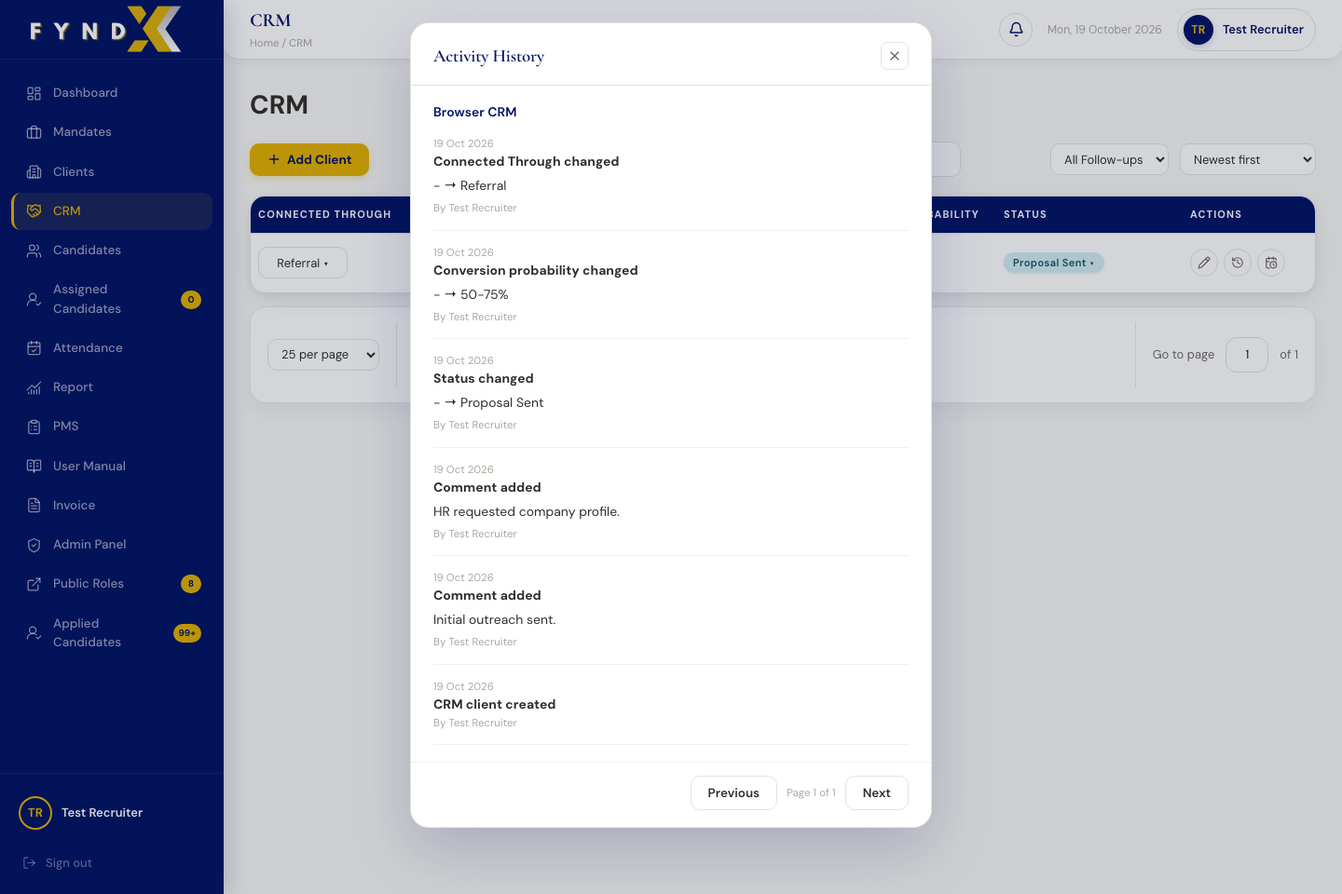
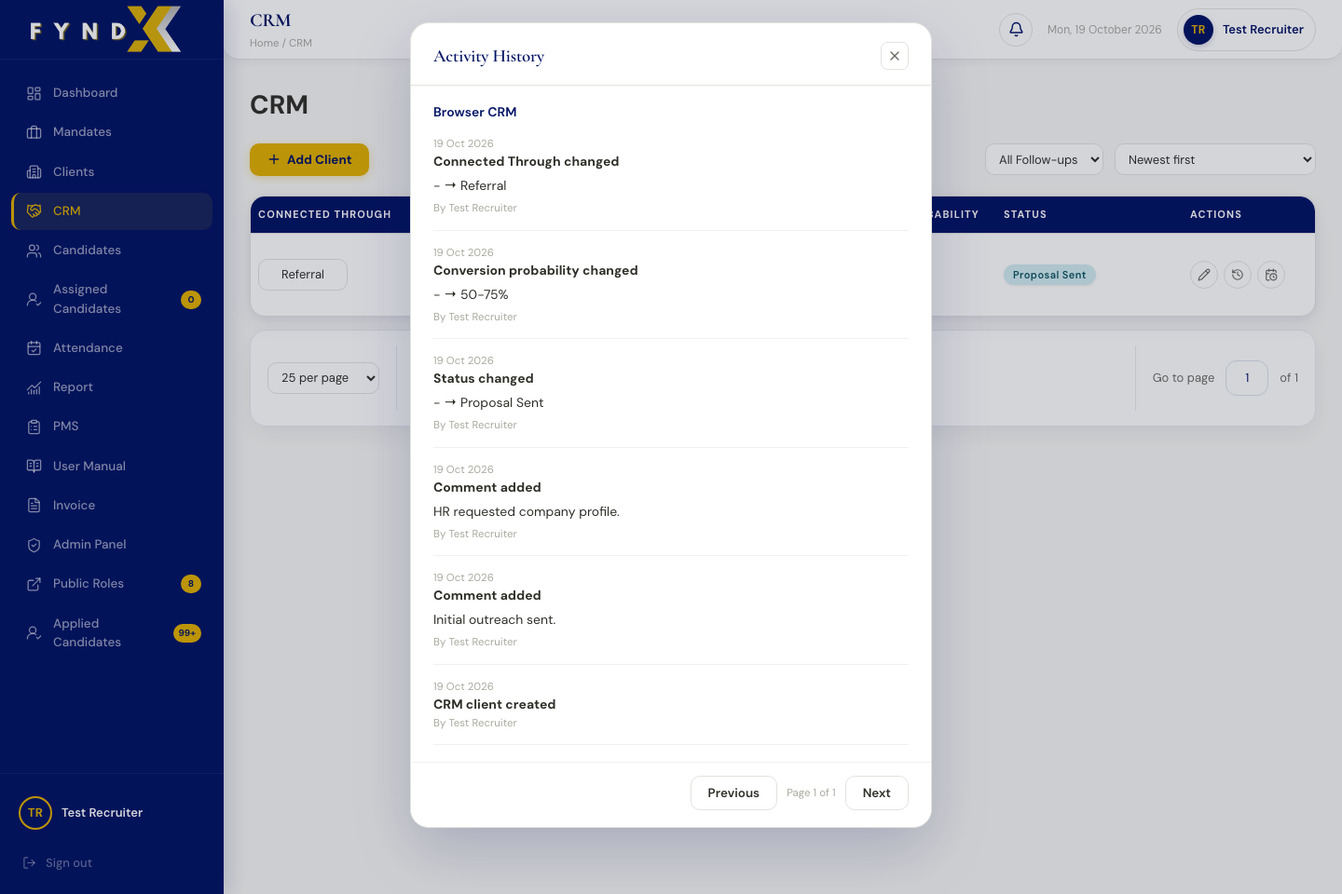
Refine CRM comment previews, calendar and probability sorting

diff --git a/src/pages/CrmPage.jsx b/src/pages/CrmPage.jsx
@@ -1,5 +1,5 @@
 import { useCallback, useEffect, useRef, useState } from 'react'
-import { CalendarClock, History, Info, Pencil, Plus, Search, Trash2 } from 'lucide-react'
+import { ChevronDown, CalendarClock, History, Info, Pencil, Plus, Search, Trash2 } from 'lucide-react'
 import { CrmClientForm, CrmDialog, CrmHistory } from '../components/CrmDialogs'
 import PaginationBar from '../components/PaginationBar'
 import TablePopover from '../components/TablePopover'
@@ -8,6 +8,7 @@ import { FyndbridgeLoader } from '../components/FyndbridgeLoader'
 import { crmRequest } from '../services/crmApi'
 import { CRM_BADGES, CRM_STATUSES, CRM_PROBABILITIES, CRM_SOURCES, commentDate, followUpState, validLinkedIn } from '../utils/crm'
 import { formatDateDDMMYYYY } from '../utils/dateFormat'
+import { previewWords } from '../utils/tableText'
 import '../styles/Shared.css'
 import './CrmPage.css'
 
@@ -33,6 +34,7 @@ export default function CrmPage() {
   const [selectedContacts, setSelectedContacts] = useState({})
   const [popover, setPopover] = useState(null)
   const [comment, setComment] = useState(null)
+  const [expandedComments, setExpandedComments] = useState({})
   const [followEditor, setFollowEditor] = useState(null)
   const [busy, setBusy] = useState({})
   const commentDrafts = useRef(new Map())
@@ -81,7 +83,7 @@ export default function CrmPage() {
     finally { locks.current.delete(record.id); if (mounted.current) setBusy(current => ({ ...current, [record.id]: false })) }
   }
   const openPopover = (record, field, options, element) => setPopover({ record, field, options, anchorRect: element.getBoundingClientRect() })
-  const drop = (record, field, options) => <button type="button" className={field === 'connected_through' ? 'filter-select compact-select' : `badge ${CRM_BADGES[record[field]] || 'badge-status-unset'}`} disabled={busy[record.id]} aria-label={`Edit ${field.replaceAll('_', ' ')} for ${record.organisation_name}`} onClick={event => openPopover(record, field, options, event.currentTarget)}>{record[field] || '-'} ▾</button>
+  const drop = (record, field, options) => <button type="button" className={field === 'connected_through' ? 'filter-select compact-select' : `badge ${CRM_BADGES[record[field]] || 'badge-status-unset'}`} disabled={busy[record.id]} aria-label={`Edit ${field.replaceAll('_', ' ')} for ${record.organisation_name}`} onClick={event => openPopover(record, field, options, event.currentTarget)}>{record[field] || '-'}</button>
   const configure = setter => value => { setLoading(true); setPage(1); setter(value) }
   const saved = record => { replace(record); setRevision(value => value + 1) }
   const deleteContact = async record => {
@@ -98,7 +100,7 @@ export default function CrmPage() {
     <div className="crm-toolbar"><button type="button" className="btn-primary" onClick={() => setForm({ record: null })}><Plus size={16} /> Add Client</button>
       <div className="crm-search"><Search size={15} /><input className="form-control" aria-label="Search CRM" placeholder="Search CRM..." value={search} onChange={event => setSearch(event.target.value)} /></div>
       <select className="filter-select" aria-label="Follow-up filter" value={follow} onChange={event => configure(setFollow)(event.target.value)}><option value="all">All Follow-ups</option>{Object.entries(FOLLOW_LABELS).map(([key, value]) => <option value={key} key={key}>{value}</option>)}</select>
-      <select className="filter-select" aria-label="Sort CRM" value={sort} onChange={event => configure(setSort)(event.target.value)}><option value="created_at:desc">Newest first</option><option value="created_at:asc">Oldest first</option><option value="organisation_name:asc">Organisation A–Z</option><option value="organisation_name:desc">Organisation Z–A</option></select>
+      <select className="filter-select" aria-label="Sort CRM" value={sort} onChange={event => configure(setSort)(event.target.value)}><option value="created_at:desc">Newest first</option><option value="created_at:asc">Oldest first</option><option value="conversion_probability:desc">Probability: highest to lowest</option><option value="organisation_name:asc">Organisation A–Z</option><option value="organisation_name:desc">Organisation Z–A</option></select>
     </div>
     {error && <div className="crm-error" role="alert">{error}<button className="btn-secondary" onClick={() => { setLoading(true); setRevision(value => value + 1) }}>Reload table</button></div>}
     <div className="table-card"><div className="table-wrapper crm-table-scroll"><table className="data-table fb-theme-table crm-table"><colgroup>{WIDTHS.map((width, i) => <col key={i} style={{ width }} />)}</colgroup>
@@ -107,6 +109,9 @@ export default function CrmPage() {
         const contactIndex = Math.min(selectedContacts[record.id] || 0, record.contacts.length - 1)
         const contact = record.contacts[contactIndex]
         const state = followUpState(record.next_follow_up_date, today)
+        const commentBody = record.latest_comment?.body || ''
+        const { isLong, preview } = previewWords(commentBody, 3)
+        const expanded = Boolean(record.latest_comment && expandedComments[record.id] === record.latest_comment.id)
         return <tr key={record.id} aria-busy={Boolean(busy[record.id])}>
           <td><span className="name-text">{record.organisation_name}</span><button className={`crm-follow crm-follow-${state}`} type="button" title={record.next_follow_up_date ? `Next follow-up: ${formatDateDDMMYYYY(record.next_follow_up_date)}` : 'Set follow-up date'} onClick={() => setFollowEditor({ record, value: record.next_follow_up_date || '' })}>{FOLLOW_LABELS[state]}{record.next_follow_up_date ? ` · ${formatDateDDMMYYYY(record.next_follow_up_date)}` : ''}</button></td>
           <td><span className="inline-action-cell">{record.contacts.length > 1 ? <><select className="filter-select compact-select" aria-label={`Contact for ${record.organisation_name}`} value={contactIndex} onChange={event => setSelectedContacts(current => ({ ...current, [record.id]: Number(event.target.value) }))}>{record.contacts.map((item, index) => <option key={index} value={index}>{item.name}</option>)}</select><button type="button" className="row-action-btn" title="Delete Contact" disabled={busy[record.id]} onClick={() => deleteContact(record)}><Trash2 size={12} /></button></> : contact.name}<button type="button" className="row-action-btn" title="Add Contact" onClick={() => setForm({ record: { ...record, contacts: [...record.contacts, { name: '', mobile: '', email: '', designation: '', linkedin: '' }] } })}><Plus size={12} /></button></span></td>
@@ -114,7 +119,10 @@ export default function CrmPage() {
           <td>{contact.linkedin && validLinkedIn(contact.linkedin) ? <a href={contact.linkedin} className="candidate-linkedin-link" target="_blank" rel="noopener noreferrer">LinkedIn ↗</a> : '-'}</td>
           <td>{record.sector || '-'}</td><td>{drop(record, 'connected_through', CRM_SOURCES)}</td><td>{formatDateDDMMYYYY(record.created_at)}</td>
           <td className="crm-comment-cell"><button type="button" className="row-action-btn crm-comment-info" aria-label={`Comment history for ${record.organisation_name}`} onClick={() => setHistory({ record, kind: 'comments' })}><Info size={14} /></button>
-            {comment?.record.id === record.id ? <div className="crm-inline-comment"><textarea className="form-control" aria-label="New comment" rows={3} maxLength={10000} value={comment.value} onChange={event => { commentDrafts.current.set(record.id, event.target.value); setComment(current => ({ ...current, value: event.target.value })) }} disabled={busy[record.id]} autoFocus /><div><button className="btn-primary" disabled={busy[record.id] || !comment.value.trim()} onClick={async () => { if (await update(comment.record, { comment: comment.value.trim() })) { commentDrafts.current.delete(record.id); setComment(null) } }}>Save</button><button className="btn-secondary" disabled={busy[record.id]} onClick={() => { commentDrafts.current.delete(record.id); setComment(null) }}>Cancel</button><button className="row-action-btn" title="Reload latest record (keep draft)" onClick={() => reloadRow(record)}>↻</button></div></div> : <button type="button" className="crm-comment-text" onClick={() => setComment({ record, value: commentDrafts.current.get(record.id) || '' })}>{record.latest_comment ? `${commentDate(record.latest_comment.created_at)} - ${record.latest_comment.body}` : 'Add comment'}</button>}
+            {comment?.record.id === record.id ? <div className="crm-inline-comment"><textarea className="form-control" aria-label="New comment" rows={3} maxLength={10000} value={comment.value} onChange={event => { commentDrafts.current.set(record.id, event.target.value); setComment(current => ({ ...current, value: event.target.value })) }} disabled={busy[record.id]} autoFocus /><div><button className="btn-primary" disabled={busy[record.id] || !comment.value.trim()} onClick={async () => { if (await update(comment.record, { comment: comment.value.trim() })) { commentDrafts.current.delete(record.id); setComment(null) } }}>Save</button><button className="btn-secondary" disabled={busy[record.id]} onClick={() => { commentDrafts.current.delete(record.id); setComment(null) }}>Cancel</button><button className="row-action-btn" title="Reload latest record (keep draft)" onClick={() => reloadRow(record)}>↻</button></div></div> : <div className="table-comment-cell">
+              <button type="button" className={`crm-comment-text table-comment-text${expanded ? ' is-expanded' : ''}`} onClick={() => setComment({ record, value: commentDrafts.current.get(record.id) || '' })}>{record.latest_comment ? `${commentDate(record.latest_comment.created_at)} - ${expanded || !isLong ? commentBody : preview}` : 'Add comment'}</button>
+              {isLong && <button type="button" className="table-view-more" aria-expanded={expanded} onClick={() => setExpandedComments(current => ({ ...current, [record.id]: expanded ? null : record.latest_comment.id }))}><ChevronDown size={12} className={expanded ? 'is-open' : ''} /> {expanded ? 'View less' : 'View more'}</button>}
+            </div>}
           </td><td>{drop(record, 'conversion_probability', CRM_PROBABILITIES)}</td><td>{drop(record, 'status', CRM_STATUSES)}</td>
           <td><div className="inline-action-cell"><button type="button" className="row-action-btn" title="Edit Client" onClick={() => openEdit(record)} disabled={busy[record.id]}><Pencil size={14} /></button><button type="button" className="row-action-btn" title="Activity History" onClick={() => setHistory({ record, kind: 'activities' })}><History size={14} /></button><button type="button" className="row-action-btn" title="Edit Follow-up" onClick={() => setFollowEditor({ record, value: record.next_follow_up_date || '' })}><CalendarClock size={14} /></button></div></td>
         </tr>
@@ -127,6 +135,6 @@ export default function CrmPage() {
     }}>{option || '-'}</button>)}</TablePopover>}
     {form && <CrmClientForm record={form.record} onClose={() => setForm(null)} onSaved={saved} />}
     {history && <CrmHistory {...history} onClose={() => setHistory(null)} />}
-    {followEditor && <CrmDialog title="Next Follow-up Date" onClose={() => setFollowEditor(null)} busy={busy[followEditor.record.id]} footer={<><button className="btn-secondary" disabled={busy[followEditor.record.id]} onClick={() => setFollowEditor(null)}>Cancel</button><button className="btn-primary" disabled={busy[followEditor.record.id]} onClick={async () => { if (await update(followEditor.record, { next_follow_up_date: followEditor.value })) setFollowEditor(null) }}>Save</button></>}><div className="modal-body"><label className="form-label" htmlFor="crm-row-follow-up">{followEditor.record.organisation_name}</label><FormattedDateInput id="crm-row-follow-up" value={followEditor.value} onChange={value => setFollowEditor(current => ({ ...current, value }))} disabled={busy[followEditor.record.id]} />{error && <p className="form-error" role="alert">{error}</p>}</div></CrmDialog>}
+    {followEditor && <CrmDialog title="Next Follow-up Date" onClose={() => setFollowEditor(null)} busy={busy[followEditor.record.id]} footer={<><button className="btn-secondary" disabled={busy[followEditor.record.id]} onClick={() => setFollowEditor(null)}>Cancel</button><button className="btn-primary" disabled={busy[followEditor.record.id]} onClick={async () => { if (await update(followEditor.record, { next_follow_up_date: followEditor.value })) setFollowEditor(null) }}>Save</button></>}><div className="modal-body"><label className="form-label" htmlFor="crm-row-follow-up">{followEditor.record.organisation_name}</label><FormattedDateInput floating id="crm-row-follow-up" value={followEditor.value} onChange={value => setFollowEditor(current => ({ ...current, value }))} disabled={busy[followEditor.record.id]} />{error && <p className="form-error" role="alert">{error}</p>}</div></CrmDialog>}
   </div>
 }

diff --git a/src/components/FormattedDateInput.jsx b/src/components/FormattedDateInput.jsx
@@ -1,4 +1,4 @@
-import { useEffect, useRef, useState } from 'react'
+import { useEffect, useLayoutEffect, useRef, useState } from 'react'
 import { ChevronLeft, ChevronRight } from 'lucide-react'
 import { formatDateDDMMYYYY } from '../utils/dateFormat'
 
@@ -56,12 +56,42 @@ const calendarDays = (monthDate) => {
   })
 }
 
-export default function FormattedDateInput({ value, onChange, className = 'form-control', disabled = false, name, id }) {
+export default function FormattedDateInput({ value, onChange, className = 'form-control', disabled = false, name, id, floating = false }) {
   const [displayValue, setDisplayValue] = useState('')
   const [isEditing, setIsEditing] = useState(false)
   const [isOpen, setIsOpen] = useState(false)
   const [visibleMonth, setVisibleMonth] = useState(() => dateFromValue(value))
   const containerRef = useRef(null)
+  const calendarRef = useRef(null)
+
+  // Opt-in for modal fields: a viewport-positioned calendar escapes the form's
+  // scrolling body while remaining in the dialog DOM and its keyboard focus trap.
+  useLayoutEffect(() => {
+    if (!isOpen || !floating) return undefined
+    const positionCalendar = () => {
+      const calendar = calendarRef.current
+      const input = containerRef.current?.querySelector('input')
+      if (!calendar || !input) return
+      const anchor = input.getBoundingClientRect()
+      const width = Math.min(324, window.innerWidth - 32)
+      calendar.style.width = `${width}px`
+      const height = calendar.offsetHeight
+      const below = window.innerHeight - anchor.bottom - 16
+      const above = anchor.top - 16
+      const top = height > below && above > below ? anchor.top - height - 8 : anchor.bottom + 8
+      Object.assign(calendar.style, {
+        left: `${Math.max(16, Math.min(anchor.left, window.innerWidth - width - 16))}px`,
+        top: `${Math.max(8, Math.min(top, window.innerHeight - height - 8))}px`,
+      })
+    }
+    positionCalendar()
+    window.addEventListener('resize', positionCalendar)
+    window.addEventListener('scroll', positionCalendar, true)
+    return () => {
+      window.removeEventListener('resize', positionCalendar)
+      window.removeEventListener('scroll', positionCalendar, true)
+    }
+  }, [floating, isOpen])
 
   useEffect(() => {
     if (!isOpen) return undefined
@@ -136,7 +166,7 @@ export default function FormattedDateInput({ value, onChange, className = 'form-
       />
 
       {isOpen && (
-        <span className="formatted-date-calendar" role="dialog" aria-label="Choose a date" onClick={(event) => event.stopPropagation()}>
+        <span ref={calendarRef} className="formatted-date-calendar" style={floating ? { position: 'fixed', zIndex: 100010 } : undefined} role="dialog" aria-label="Choose a date" onClick={(event) => event.stopPropagation()}>
           <span className="formatted-date-calendar-header">
             <button type="button" onClick={() => changeMonth(-1)} aria-label="Previous month">
               <ChevronLeft size={18} />

diff --git a/server/src/services/crm.test.js b/server/src/services/crm.test.js
@@ -6,7 +6,7 @@ const { createDatabase, CONSULTANT, OTHER, INACTIVE, CLIENT } = require('../../t
 const { normalizeClientName } = require('../../../shared/clientNames.cjs')
 const MIGRATION = path.resolve(__dirname, '../../../supabase/migrations/20261019105523_business_development_crm.sql')
 const contact = { name: 'HR Contact', mobile: '+91 98765 43210', email: 'hr@example.test', designation: '', linkedin: '' }
-async function createCrmDatabase() { const db = await createDatabase(); await db.exec(await fs.readFile(MIGRATION, 'utf8')); return db }
+async function createCrmDatabase() { const db = await createDatabase(); await db.exec(await fs.readFile(MIGRATION, 'utf8')); await db.exec(await fs.readFile(path.resolve(__dirname, '../../../supabase/migrations/20261019110948_crm_probability_sorting.sql'), 'utf8')); return db }
 async function save(db, data, record = null, actor = CONSULTANT) { return (await db.query('select crm_save($1,$2,$3,$4) as data', [actor, record?.id || null, record?.version || null, JSON.stringify(data)])).rows[0].data }
 const scalar = async (db, sql, args = []) => Object.values((await db.query(sql, args)).rows[0])[0]
 test('CRM migration: transactions, persistence, duplicates, audit, concurrency and access control', async t => {
@@ -77,6 +77,17 @@ test('CRM migration: transactions, persistence, duplicates, audit, concurrency a
     assert.equal((await list('', 'overdue')).total, 0)
     assert.equal((await list('', 'upcoming')).total, 0)
     assert.equal((await list('', 'all')).data.length, 1)
+  })
+  await t.test('probability sorts numerically across pages, with unspecified probabilities last', async () => {
+    for (const [index, probability] of [null, '<25%', '75-100%', '25-50%', '50-75%', '75-100%'].entries()) {
+      await save(db, { organisation_name: `Probability fixture ${index}`, contacts: [contact], conversion_probability: probability })
+    }
+    const bands = async (page, ascending = false) => (await scalar(db, "select crm_list('Probability fixture','all','2026-10-20',$1,2,'conversion_probability',$2)", [page, ascending])).data.map(row => row.conversion_probability)
+    assert.deepEqual(await bands(1), ['75-100%', '75-100%'])
+    assert.deepEqual(await bands(2), ['50-75%', '25-50%'])
+    assert.deepEqual(await bands(3), ['<25%', null])
+    assert.deepEqual(await bands(1, true), ['<25%', '25-50%'])
+    assert.deepEqual(await bands(3, true), ['75-100%', null])
   })
   await t.test('browser roles cannot access tables or spoof actors through RPC; service role works', async () => {
     for (const role of ['anon', 'authenticated']) {

diff --git a/src/components/CrmDialogs.jsx b/src/components/CrmDialogs.jsx
@@ -107,7 +107,7 @@ export function CrmClientForm({ record, onClose, onSaved }) {
           <option value="">-</option>{historical && <option value={assigned}>{staff.find(person => person.user_id === assigned)?.name || (assigned === (user?.id || session?.user?.id) ? user?.profile_name || user?.email : 'Unavailable employee')} {target ? '(inactive / unavailable)' : ''}</option>}
           {selectableStaff.map(person => <option key={person.user_id} value={person.user_id}>{person.name}</option>)}
         </select></div>
-        <div className="form-group"><label className="form-label" htmlFor="crm-follow-up">Next Follow-up Date</label><FormattedDateInput id="crm-follow-up" value={form.next_follow_up_date || ''} onChange={value => set('next_follow_up_date', value)} disabled={busy} /></div>
+        <div className="form-group"><label className="form-label" htmlFor="crm-follow-up">Next Follow-up Date</label><FormattedDateInput floating id="crm-follow-up" value={form.next_follow_up_date || ''} onChange={value => set('next_follow_up_date', value)} disabled={busy} /></div>
         <div className="form-group full"><label className="form-label" htmlFor="crm-comment">Comments</label><textarea id="crm-comment" className="form-control" rows={3} value={form.comment} maxLength={10000} onChange={event => set('comment', event.target.value)} />{target && <span className="sub-text">Saving a changed comment adds a new history entry. Leave empty to keep the existing comment.</span>}</div>
       </div></fieldset>
     </form>}

diff --git a/src/pages/CrmPage.css b/src/pages/CrmPage.css
@@ -16,7 +16,7 @@
 .crm-table td.crm-email { color: var(--info); font-size: 12.5px; }
 .crm-comment-cell { position: relative; padding-right: 30px !important; }
 .crm-comment-info { position: absolute; top: 7px; right: 6px; }
-.crm-comment-text { text-align: left; font: inherit; background: transparent; border: 0; color: inherit; cursor: pointer; padding: 0; white-space: pre-wrap; display: -webkit-box; -webkit-line-clamp: 3; -webkit-box-orient: vertical; overflow: hidden; }
+.crm-comment-text { text-align: left; font: inherit; background: transparent; border: 0; color: inherit; cursor: pointer; padding: 0; white-space: normal; }
 .crm-inline-comment > div { display: flex; gap: 4px; margin-top: 8px; }
 .crm-inline-comment .btn-primary, .crm-inline-comment .btn-secondary { padding: 5px 10px; font-size: 12px; }
 .crm-form-fields { border: 0; margin: 0; padding: 0; min-width: 0; }
@@ -47,3 +47,8 @@
   .crm-page .pagination-bar { max-width: 100%; }
   .crm-page .crm-search { min-width: 0; }
 }
+
+.crm-probability-low { background: #F8D7DA; color: #721C24; border: 1px solid #efb8bd; }
+.crm-probability-medium { background: #fff0df; color: #95430e; border: 1px solid #f3d0aa; }
+.crm-probability-high { background: #fff5cf; color: #7a5c00; border: 1px solid #ecdc9c; }
+.crm-probability-highest { background: #D4EDDA; color: #155724; border: 1px solid #b8dac1; }

diff --git a/src/utils/crm.js b/src/utils/crm.js
@@ -5,7 +5,7 @@ export const CRM_BADGES = {
   'Outreach Sent': 'badge-client-submission', 'Follow-up Sent': 'badge-in-discussion', DNP: 'badge-status-unset', CB: 'badge-offered',
   'Meeting Scheduled': 'badge-interview', 'Proposal Sent': 'badge-client-submission', Negotiation: 'badge-in-discussion', Won: 'badge-hired',
   Lost: 'badge-rejected-client', 'On Hold': 'badge-offer-declined', 'Not Interested': 'badge-not-interested', 'Nurture / Long-term': 'badge-interested',
-  '<25%': 'badge-status-unset', '25-50%': 'badge-client-submission', '50-75%': 'badge-in-discussion', '75-100%': 'badge-hired'
+  '<25%': 'crm-probability-low', '25-50%': 'crm-probability-medium', '50-75%': 'crm-probability-high', '75-100%': 'crm-probability-highest'
 }
 export const emptyContact = () => ({ name: '', mobile: '', email: '', designation: '', linkedin: '' })
 export const followUpState = (date, today) => !date ? 'none' : date < today ? 'overdue' : date === today ? 'today' : 'upcoming'

diff --git a/src/pages/ClientsPage.jsx b/src/pages/ClientsPage.jsx
@@ -1,3 +1,4 @@
+import { previewWords } from '../utils/tableText'
 import { useCallback, useEffect, useMemo, useRef, useState } from 'react'
 import { createPortal } from 'react-dom'
 import { Link, useLocation, useNavigate } from 'react-router-dom'
@@ -95,14 +96,6 @@ const clientContractAttachments = (client) => normalizeAttachments(
 )
 const clean = (value) => String(value || '').replace(/\s+/g, ' ').trim()
 const normalizeText = (value) => String(value || '').replace(/\s+/g, ' ').trim().toLowerCase()
-const previewWords = (value, count = 3) => {
-  const words = String(value || '').trim().split(/\s+/).filter(Boolean)
-  return {
-    words,
-    isLong: words.length > count,
-    preview: words.slice(0, count).join(' ')
-  }
-}
 const contactNameFor = (client) => String(client?.contact_person || client?.contact || '').replace(/\s+/g, ' ').trim()
 const isRealContact = (client) => {
   const name = contactNameFor(client)

diff --git a/src/pages/CandidatesPage.jsx b/src/pages/CandidatesPage.jsx
@@ -1,3 +1,4 @@
+import { previewWords } from '../utils/tableText'
 import { useCallback, useEffect, useMemo, useRef, useState } from 'react'
 import { createPortal } from 'react-dom'
 import { useLocation, useNavigate } from 'react-router-dom'
@@ -90,14 +91,6 @@ const getNoticeMeta = (value) => {
 const formatLocationRegion = (location, region) => {
   const parts = [location, region].map(value => String(value || '').trim()).filter(Boolean)
   return parts.join(', ')
-}
-const previewWords = (value, count = 3) => {
-  const words = String(value || '').trim().split(/\s+/).filter(Boolean)
-  return {
-    words,
-    isLong: words.length > count,
-    preview: words.slice(0, count).join(' ')
-  }
 }
 
 const getReadableClientId = (candidate, clientDisplayLookup) => {

diff --git a/server/src/routes/crm.js b/server/src/routes/crm.js
@@ -21,7 +21,7 @@ router.get('/', safe(async (req, res) => {
   const { data, error } = await supabase.rpc('crm_list', {
     p_search: String(req.query.search || '').slice(0, 300), p_follow_up: String(req.query.follow_up || 'all'), p_today: today,
     p_page: integer(req.query.page, 1, 1000000), p_size: integer(req.query.pageSize, 25, 100),
-    p_sort: req.query.sort === 'organisation_name' ? 'organisation_name' : 'created_at', p_ascending: req.query.direction === 'asc'
+    p_sort: ['organisation_name', 'conversion_probability'].includes(req.query.sort) ? req.query.sort : 'created_at', p_ascending: req.query.direction === 'asc'
   })
   if (error) throw error
   res.json({ ...data, today })

diff --git a/src/utils/tableText.js b/src/utils/tableText.js
@@ -1,0 +1,8 @@
+export const previewWords = (value, count = 3) => {
+  const words = String(value || '').trim().split(/\s+/).filter(Boolean)
+  return {
+    words,
+    isLong: words.length > count,
+    preview: words.slice(0, count).join(' ')
+  }
+}

diff --git a/outputs/crm-verification/results.md b/outputs/crm-verification/results.md
@@ -96,3 +96,26 @@ image was not supplied; current ATS source and rendered native forms guided styl
 - Existing unrelated search-path/password-protection notices were left unchanged.
   [Search path guidance](https://supabase.com/docs/guides/database/database-linter?lint=0011_function_search_path_mutable),
   [password protection guidance](https://supabase.com/docs/guides/auth/password-security#password-strength-and-leaked-password-protection).
+
+## Display-refinement verification — 19 October 2026
+
+- Full backend suite: 789 passed, including the additional cross-page numeric-band
+  sorting test. PostgreSQL CRM suite: 11 passed.
+- Current Chromium/WebKit CRM suite: 16 passed, including existing ATS forms.
+- Browser assertions confirm the three-word preview and View more / View less,
+  exact pill labels without arrows, all four probability colours, sorting over
+  30 records and two pages, and unset probabilities last.
+- Full 42-day calendars were visible and clickable at 1440×780 and 390×700 without
+  scrolling the follow-up modal; the Edit Client form's calendar also passed.
+- Final production-build checks for these refinements: 4 passed across Chromium and WebKit.
+- Newly edited CRM/date-picker/helper code passes ESLint. Candidates and Clients
+  received only the identical preview helper extraction; their lint findings were
+  compared with HEAD: Candidates retains its 6 existing findings; Clients has 0.
+  No new findings were introduced.
+- Hosted migration `20261019110948` updates only `crm_list`. The live rollback test
+  passed for highest, middle and lowest/unset pages; no test rows remain. Browser
+  RPC execution remains revoked and service-role execution remains allowed.
+- Security advisor findings are unchanged; no new `crm_list` findings were reported.
+
+New screenshots: `calendar-1440.png`, `calendar-390.png`, and
+`probability-and-comment-previews.png`.

diff --git a/docs/CRM.md b/docs/CRM.md
@@ -130,3 +130,18 @@ Modified:
 - `server/src/app.js`: authenticated CRM router.
 - `src/utils/sectorOptions.js`: preserved export backed by the shared options source.
 - `server/src/controllers/clientController.js`: exact existing normalizer extraction only.
+
+## CRM display refinements — 19 October 2026
+
+- Comments share the unchanged Candidates/Clients `previewWords` helper in
+  `src/utils/tableText.js`: date plus the first three comment words, then the native
+  View more / View less control. Clicking the comment still opens its inline editor.
+- CRM uses the date picker's opt-in `floating` mode, positioning its full calendar
+  within the viewport rather than clipping it inside the modal's scrolling body.
+  The calendar remains in the modal DOM for focus management. Existing date fields
+  elsewhere retain their previous default positioning.
+- Status, probability and source buttons open on click without decorative arrows.
+- Conversion bands use restrained red, orange, amber and green pills; 75–100% is green.
+- The probability sort is applied before database pagination, with unset values last.
+  Migration `20261019110948_crm_probability_sorting.sql` is applied in hosted
+  ATS FYNDBRIDGE and verified with a rolled-back six-record sorting test.
